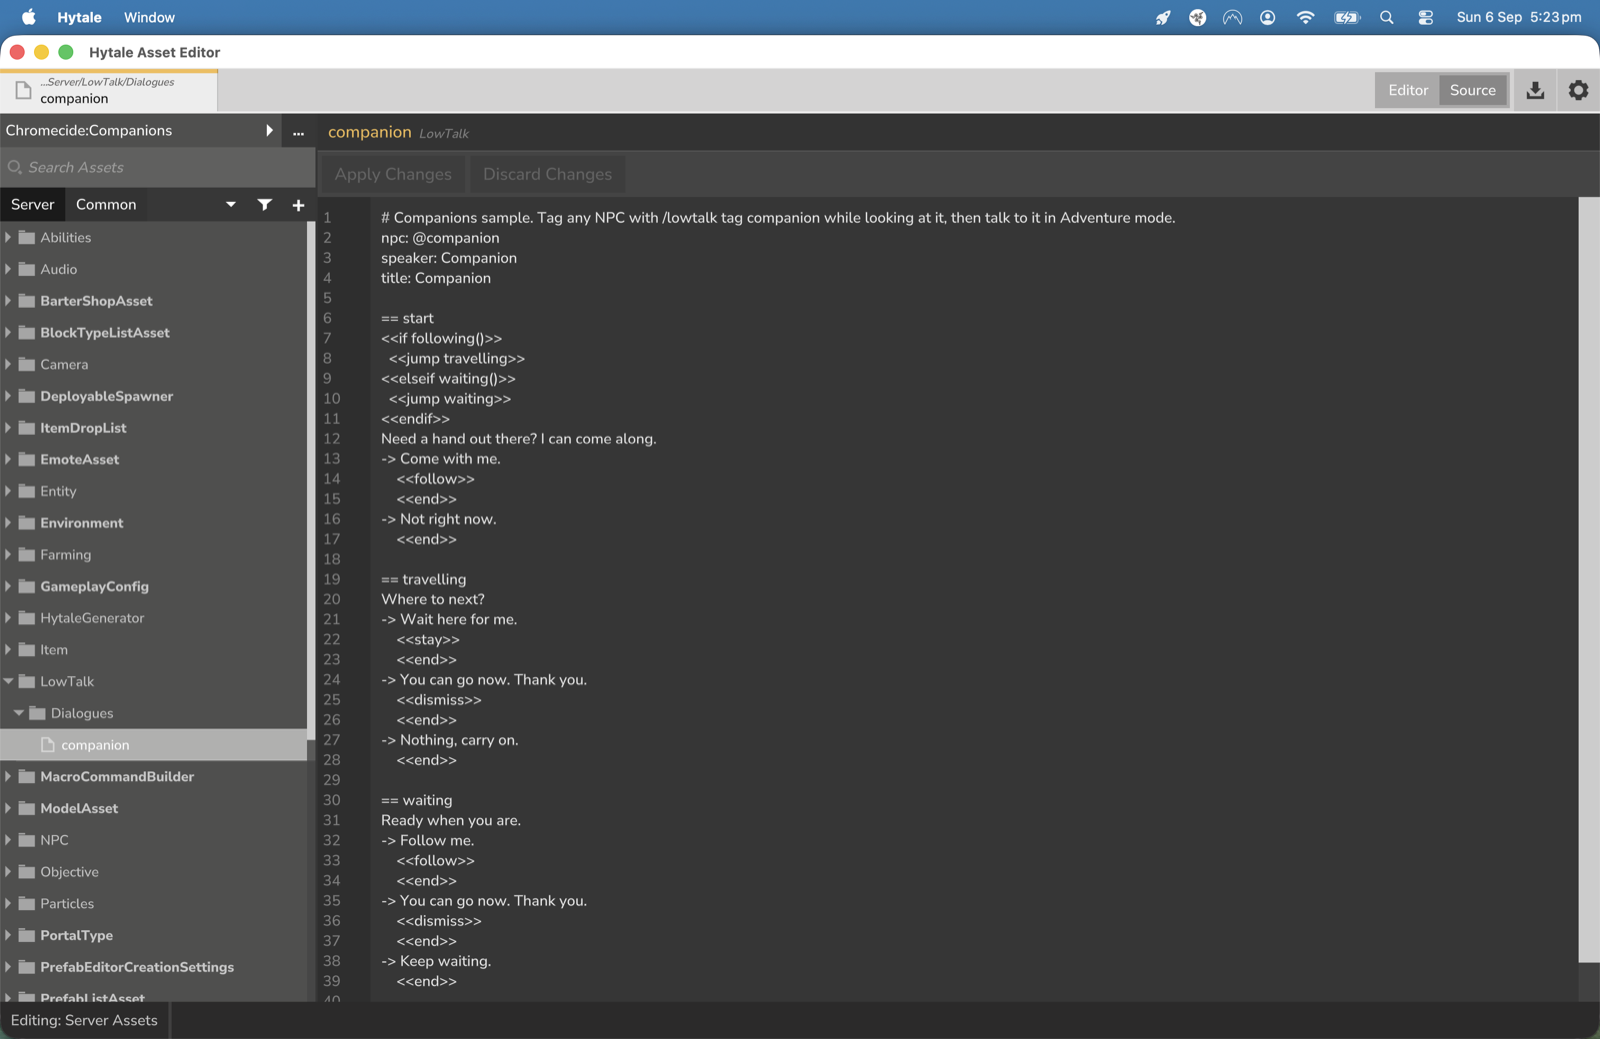
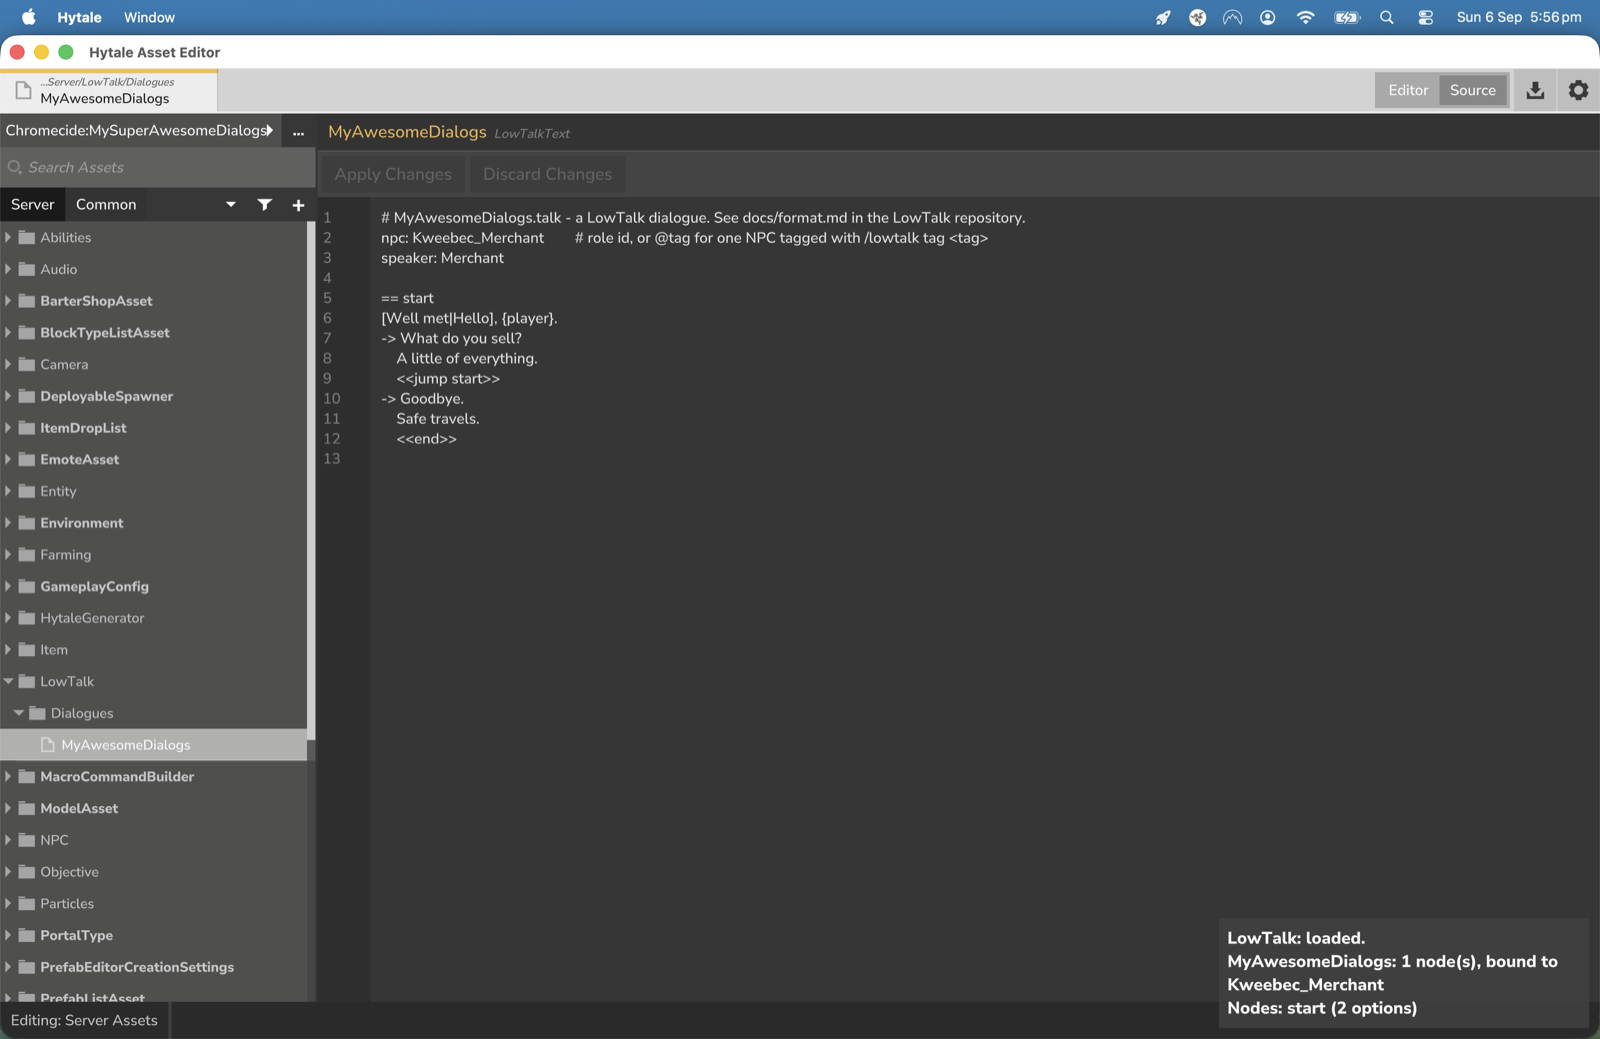
CurseForge draft: Asset Editor form and text-mode screenshots; Village_Guide JSON example

diff --git a/docs/CURSEFORGE.md b/docs/CURSEFORGE.md
@@ -87,7 +87,10 @@ you can see exactly what you are running.
 ![The Node Editor showing a whole dialogue as a wired graph](screenshots/node-editor-graph.png)
 *The same kind of dialogue drawn in Hytale's Node Editor with the LowTalk workspace: nodes, options, branches and commands wired up.*
 
-![The Asset Editor's text mode with a .talk file open](screenshots/asset-editor-text.png)
-*Text mode in the Asset Editor: the Companions sample dialogue, validated and loaded on every save.*
+![The Asset Editor's form view of a dialogue: an option with its condition, once flag and body](screenshots/asset-editor-form.png)
+*The Asset Editor's form: a dialogue as fields. This option is shown only until the errand is taken, once, and its body hands over bread.*
 
-Still to capture: the Asset Editor's form view with a picker open; a merchant handing over bread with the narration line; the fortune teller's text-input prompt; `/lowtalk reload` output showing a line-numbered error.
+![The Asset Editor's text mode with a .talk file open and LowTalk's load report in the corner](screenshots/asset-editor-text.png)
+*Text mode in the Asset Editor. Every save is validated and loaded; the notification says what was loaded and which NPCs it binds to.*
+
+Still to capture: a merchant handing over bread with the narration line; the fortune teller's text-input prompt; `/lowtalk reload` output showing a line-numbered error.
